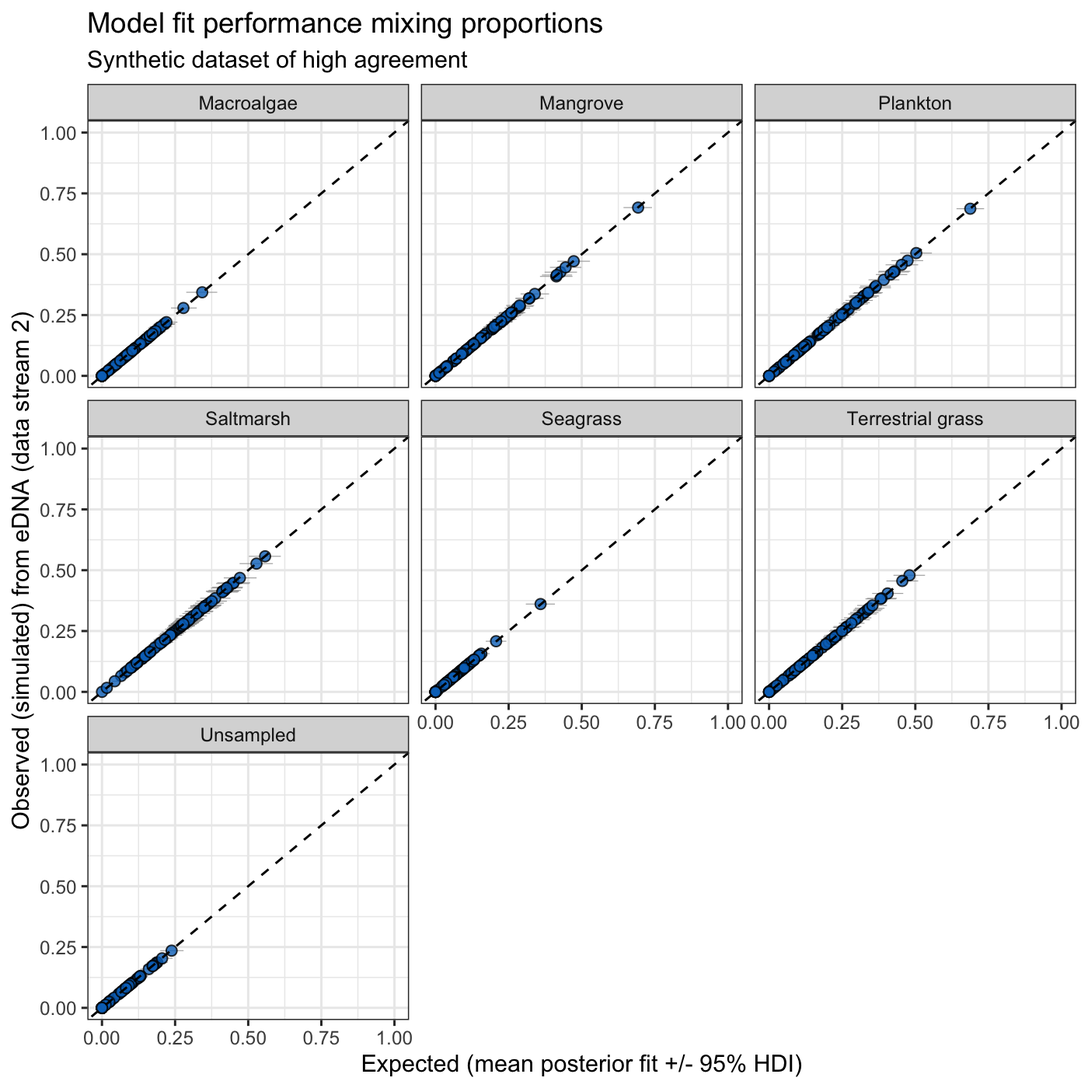
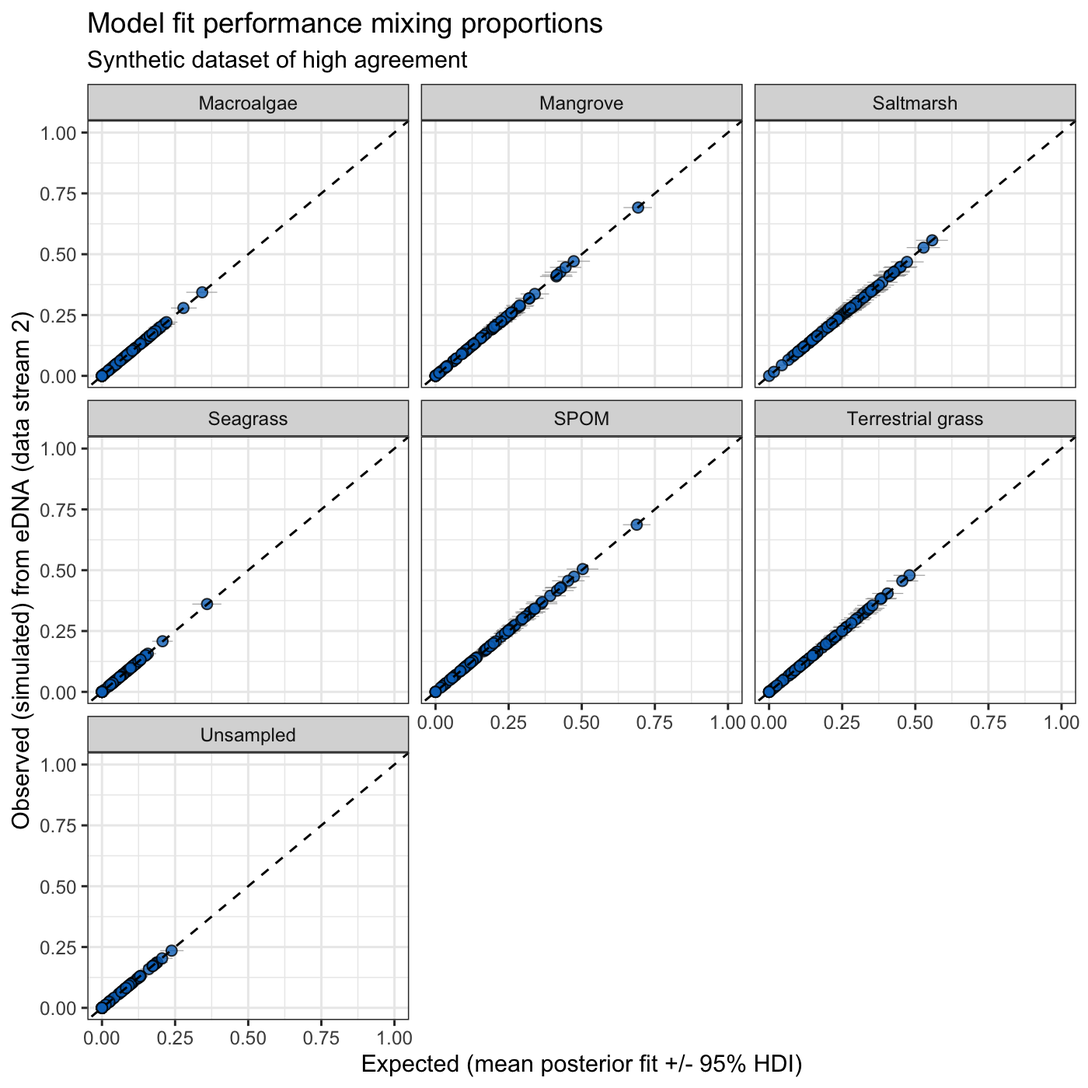
Deploying to gh-pages from @ open-AIMS/mixmustr@7dc9ee240db390f470b6f9cc5ab502306c20d249 🚀

diff --git a/reference/tracer_parameters.html b/reference/tracer_parameters.html
@@ -109,7 +109,7 @@ sample sizes. These values are used as inputs for mixture modelling in the
 <span class="r-in"><span><span class="fu"><a href="https://rdrr.io/r/utils/str.html" class="external-link">str</a></span><span class="op">(</span><span class="va">tracer_parameters</span><span class="op">)</span></span></span>
 <span class="r-out co"><span class="r-pr">#&gt;</span> List of 3</span>
 <span class="r-out co"><span class="r-pr">#&gt;</span>  $ mus   : tibble [6 × 9] (S3: tbl_df/tbl/data.frame)</span>
-<span class="r-out co"><span class="r-pr">#&gt;</span>   ..$ source    : chr [1:6] "Macroalgae" "Mangrove" "Plankton" "Saltmarsh" ...</span>
+<span class="r-out co"><span class="r-pr">#&gt;</span>   ..$ source    : chr [1:6] "Macroalgae" "Mangrove" "SPOM" "Saltmarsh" ...</span>
 <span class="r-out co"><span class="r-pr">#&gt;</span>   ..$ d(13C/12C): num [1:6] -20.4 -27.7 -19.3 -24.6 -15.1 -13.3</span>
 <span class="r-out co"><span class="r-pr">#&gt;</span>   ..$ d(15N/14N): num [1:6] 2.4 4.4 6.2 2.31 1.2 1.69</span>
 <span class="r-out co"><span class="r-pr">#&gt;</span>   ..$ 24:0      : num [1:6] 0 2.73 0 3.3 0 0.29</span>
@@ -119,7 +119,7 @@ sample sizes. These values are used as inputs for mixture modelling in the
 <span class="r-out co"><span class="r-pr">#&gt;</span>   ..$ 20:4w6    : num [1:6] 14.271 0.105 0.38 0 1 ...</span>
 <span class="r-out co"><span class="r-pr">#&gt;</span>   ..$ 20:5w3    : num [1:6] 5.51 0 4.68 0 1 ...</span>
 <span class="r-out co"><span class="r-pr">#&gt;</span>  $ sigmas: tibble [6 × 9] (S3: tbl_df/tbl/data.frame)</span>
-<span class="r-out co"><span class="r-pr">#&gt;</span>   ..$ source    : chr [1:6] "Macroalgae" "Mangrove" "Plankton" "Saltmarsh" ...</span>
+<span class="r-out co"><span class="r-pr">#&gt;</span>   ..$ source    : chr [1:6] "Macroalgae" "Mangrove" "SPOM" "Saltmarsh" ...</span>
 <span class="r-out co"><span class="r-pr">#&gt;</span>   ..$ d(13C/12C): num [1:6] 3.1 1.4 2.8 4.32 3 0.5</span>
 <span class="r-out co"><span class="r-pr">#&gt;</span>   ..$ d(15N/14N): num [1:6] 1.2 2.6 3 1.67 1.3 0.5</span>
 <span class="r-out co"><span class="r-pr">#&gt;</span>   ..$ 24:0      : num [1:6] 0.01 1.4 0.01 3.3 0.01 ...</span>
@@ -129,7 +129,7 @@ sample sizes. These values are used as inputs for mixture modelling in the
 <span class="r-out co"><span class="r-pr">#&gt;</span>   ..$ 20:4w6    : num [1:6] 1.97 0.21 0.85 0.01 0.5 ...</span>
 <span class="r-out co"><span class="r-pr">#&gt;</span>   ..$ 20:5w3    : num [1:6] 3.95 0.01 3.97 0.01 1 ...</span>
 <span class="r-out co"><span class="r-pr">#&gt;</span>  $ ns    : tibble [6 × 9] (S3: tbl_df/tbl/data.frame)</span>
-<span class="r-out co"><span class="r-pr">#&gt;</span>   ..$ source    : chr [1:6] "Macroalgae" "Mangrove" "Plankton" "Saltmarsh" ...</span>
+<span class="r-out co"><span class="r-pr">#&gt;</span>   ..$ source    : chr [1:6] "Macroalgae" "Mangrove" "SPOM" "Saltmarsh" ...</span>
 <span class="r-out co"><span class="r-pr">#&gt;</span>   ..$ d(13C/12C): int [1:6] 12 15 24 13 20 15</span>
 <span class="r-out co"><span class="r-pr">#&gt;</span>   ..$ d(15N/14N): int [1:6] 12 15 24 13 20 15</span>
 <span class="r-out co"><span class="r-pr">#&gt;</span>   ..$ 24:0      : int [1:6] 10 10 10 10 10 10</span>
@@ -146,7 +146,7 @@ sample sizes. These values are used as inputs for mixture modelling in the
 <span class="r-out co"><span class="r-pr">#&gt;</span>   <span style="color: #949494; font-style: italic;">&lt;chr&gt;</span>            <span style="color: #949494; font-style: italic;">&lt;dbl&gt;</span>        <span style="color: #949494; font-style: italic;">&lt;dbl&gt;</span>  <span style="color: #949494; font-style: italic;">&lt;dbl&gt;</span>    <span style="color: #949494; font-style: italic;">&lt;dbl&gt;</span>    <span style="color: #949494; font-style: italic;">&lt;dbl&gt;</span>    <span style="color: #949494; font-style: italic;">&lt;dbl&gt;</span>    <span style="color: #949494; font-style: italic;">&lt;dbl&gt;</span></span>
 <span class="r-out co"><span class="r-pr">#&gt;</span> <span style="color: #BCBCBC;">1</span> Macroalg…        -<span style="color: #BB0000;">20.4</span>         2.4    0        9.46     6.04     7.17   14.3  </span>
 <span class="r-out co"><span class="r-pr">#&gt;</span> <span style="color: #BCBCBC;">2</span> Mangrove         -<span style="color: #BB0000;">27.7</span>         4.4    2.73    14.1     15.5     28.3     0.105</span>
-<span class="r-out co"><span class="r-pr">#&gt;</span> <span style="color: #BCBCBC;">3</span> Plankton         -<span style="color: #BB0000;">19.3</span>         6.2    0       18.5      0.56     1.42    0.38 </span>
+<span class="r-out co"><span class="r-pr">#&gt;</span> <span style="color: #BCBCBC;">3</span> SPOM             -<span style="color: #BB0000;">19.3</span>         6.2    0       18.5      0.56     1.42    0.38 </span>
 <span class="r-out co"><span class="r-pr">#&gt;</span> <span style="color: #BCBCBC;">4</span> Saltmarsh        -<span style="color: #BB0000;">24.6</span>         2.31   3.3      9.1     18.4     24.8     0    </span>
 <span class="r-out co"><span class="r-pr">#&gt;</span> <span style="color: #BCBCBC;">5</span> Seagrass         -<span style="color: #BB0000;">15.1</span>         1.2    0        4       27       33       1    </span>
 <span class="r-out co"><span class="r-pr">#&gt;</span> <span style="color: #BCBCBC;">6</span> Terrestr…        -<span style="color: #BB0000;">13.3</span>         1.69   0.29     1.99    12.5     40.3     1.08 </span>
@@ -159,7 +159,7 @@ sample sizes. These values are used as inputs for mixture modelling in the
 <span class="r-out co"><span class="r-pr">#&gt;</span>   <span style="color: #949494; font-style: italic;">&lt;chr&gt;</span>            <span style="color: #949494; font-style: italic;">&lt;dbl&gt;</span>        <span style="color: #949494; font-style: italic;">&lt;dbl&gt;</span>  <span style="color: #949494; font-style: italic;">&lt;dbl&gt;</span>    <span style="color: #949494; font-style: italic;">&lt;dbl&gt;</span>    <span style="color: #949494; font-style: italic;">&lt;dbl&gt;</span>    <span style="color: #949494; font-style: italic;">&lt;dbl&gt;</span>    <span style="color: #949494; font-style: italic;">&lt;dbl&gt;</span></span>
 <span class="r-out co"><span class="r-pr">#&gt;</span> <span style="color: #BCBCBC;">1</span> Macroalg…         3.1          1.2    0.01     1.38    1.87     0.955    1.97 </span>
 <span class="r-out co"><span class="r-pr">#&gt;</span> <span style="color: #BCBCBC;">2</span> Mangrove          1.4          2.6    1.40     1.87    2.00     2.52     0.21 </span>
-<span class="r-out co"><span class="r-pr">#&gt;</span> <span style="color: #BCBCBC;">3</span> Plankton          2.8          3      0.01    10.2     0.602    0.259    0.850</span>
+<span class="r-out co"><span class="r-pr">#&gt;</span> <span style="color: #BCBCBC;">3</span> SPOM              2.8          3      0.01    10.2     0.602    0.259    0.850</span>
 <span class="r-out co"><span class="r-pr">#&gt;</span> <span style="color: #BCBCBC;">4</span> Saltmarsh         4.32         1.67   3.3      7.64    4.45    32.6      0.01 </span>
 <span class="r-out co"><span class="r-pr">#&gt;</span> <span style="color: #BCBCBC;">5</span> Seagrass          3            1.3    0.01     1       5       12        0.5  </span>
 <span class="r-out co"><span class="r-pr">#&gt;</span> <span style="color: #BCBCBC;">6</span> Terrestr…         0.5          0.5    0.09     0.14    0.91     3.52     1.02 </span>
@@ -172,7 +172,7 @@ sample sizes. These values are used as inputs for mixture modelling in the
 <span class="r-out co"><span class="r-pr">#&gt;</span>   <span style="color: #949494; font-style: italic;">&lt;chr&gt;</span>            <span style="color: #949494; font-style: italic;">&lt;int&gt;</span>        <span style="color: #949494; font-style: italic;">&lt;int&gt;</span>  <span style="color: #949494; font-style: italic;">&lt;int&gt;</span>    <span style="color: #949494; font-style: italic;">&lt;int&gt;</span>    <span style="color: #949494; font-style: italic;">&lt;int&gt;</span>    <span style="color: #949494; font-style: italic;">&lt;int&gt;</span>    <span style="color: #949494; font-style: italic;">&lt;int&gt;</span></span>
 <span class="r-out co"><span class="r-pr">#&gt;</span> <span style="color: #BCBCBC;">1</span> Macroalg…           12           12     10       10       10       10       10</span>
 <span class="r-out co"><span class="r-pr">#&gt;</span> <span style="color: #BCBCBC;">2</span> Mangrove            15           15     10       10       10       10       10</span>
-<span class="r-out co"><span class="r-pr">#&gt;</span> <span style="color: #BCBCBC;">3</span> Plankton            24           24     10       10       10       10       10</span>
+<span class="r-out co"><span class="r-pr">#&gt;</span> <span style="color: #BCBCBC;">3</span> SPOM                24           24     10       10       10       10       10</span>
 <span class="r-out co"><span class="r-pr">#&gt;</span> <span style="color: #BCBCBC;">4</span> Saltmarsh           13           13     10       10       10       10       10</span>
 <span class="r-out co"><span class="r-pr">#&gt;</span> <span style="color: #BCBCBC;">5</span> Seagrass            20           20     10       10       10       10       10</span>
 <span class="r-out co"><span class="r-pr">#&gt;</span> <span style="color: #BCBCBC;">6</span> Terrestr…           15           15     10       10       10       10       10</span>

diff --git a/reference/bcs_si.html b/reference/bcs_si.html
@@ -1,9 +1,11 @@
 <!DOCTYPE html>
 <!-- Generated by pkgdown: do not edit by hand --><html lang="en"><head><meta http-equiv="Content-Type" content="text/html; charset=UTF-8"><meta charset="utf-8"><meta http-equiv="X-UA-Compatible" content="IE=edge"><meta name="viewport" content="width=device-width, initial-scale=1.0"><title>BCS Stable Isotope Data — bcs_si • mixmustr</title><!-- jquery --><script src="https://cdnjs.cloudflare.com/ajax/libs/jquery/3.7.1/jquery.min.js" integrity="sha512-v2CJ7UaYy4JwqLDIrZUI/4hqeoQieOmAZNXBeQyjo21dadnwR+8ZaIJVT8EE2iyI61OV8e6M8PP2/4hpQINQ/g==" crossorigin="anonymous" referrerpolicy="no-referrer"></script><!-- Bootstrap --><link href="https://cdnjs.cloudflare.com/ajax/libs/bootswatch/3.4.0/yeti/bootstrap.min.css" rel="stylesheet" crossorigin="anonymous"><script src="https://cdnjs.cloudflare.com/ajax/libs/twitter-bootstrap/3.4.1/js/bootstrap.min.js" integrity="sha256-nuL8/2cJ5NDSSwnKD8VqreErSWHtnEP9E7AySL+1ev4=" crossorigin="anonymous"></script><!-- bootstrap-toc --><link rel="stylesheet" href="../bootstrap-toc.css"><script src="../bootstrap-toc.js"></script><!-- Font Awesome icons --><link rel="stylesheet" href="https://cdnjs.cloudflare.com/ajax/libs/font-awesome/5.12.1/css/all.min.css" integrity="sha256-mmgLkCYLUQbXn0B1SRqzHar6dCnv9oZFPEC1g1cwlkk=" crossorigin="anonymous"><link rel="stylesheet" href="https://cdnjs.cloudflare.com/ajax/libs/font-awesome/5.12.1/css/v4-shims.min.css" integrity="sha256-wZjR52fzng1pJHwx4aV2AO3yyTOXrcDW7jBpJtTwVxw=" crossorigin="anonymous"><!-- clipboard.js --><script src="https://cdnjs.cloudflare.com/ajax/libs/clipboard.js/2.0.6/clipboard.min.js" integrity="sha256-inc5kl9MA1hkeYUt+EC3BhlIgyp/2jDIyBLS6k3UxPI=" crossorigin="anonymous"></script><!-- headroom.js --><script src="https://cdnjs.cloudflare.com/ajax/libs/headroom/0.11.0/headroom.min.js" integrity="sha256-AsUX4SJE1+yuDu5+mAVzJbuYNPHj/WroHuZ8Ir/CkE0=" crossorigin="anonymous"></script><script src="https://cdnjs.cloudflare.com/ajax/libs/headroom/0.11.0/jQuery.headroom.min.js" integrity="sha256-ZX/yNShbjqsohH1k95liqY9Gd8uOiE1S4vZc+9KQ1K4=" crossorigin="anonymous"></script><!-- pkgdown --><link href="../pkgdown.css" rel="stylesheet"><script src="../pkgdown.js"></script><meta property="og:title" content="BCS Stable Isotope Data — bcs_si"><meta property="og:description" content="This dataset contains stable isotope ratios
 (\(\delta^{13}C\) and \(\delta^{15}N\)), their standard deviations and
-sample sizes for various sources in the BCS study. Notice that the sample
-sizes for Terrestrial grass were not provided in the original source
-(Goni &amp;amp; Thomas, 2000) and were therefore arbitrarily set to 15."><meta property="og:image" content="/logo.png"><!-- mathjax --><script src="https://cdnjs.cloudflare.com/ajax/libs/mathjax/2.7.5/MathJax.js" integrity="sha256-nvJJv9wWKEm88qvoQl9ekL2J+k/RWIsaSScxxlsrv8k=" crossorigin="anonymous"></script><script src="https://cdnjs.cloudflare.com/ajax/libs/mathjax/2.7.5/config/TeX-AMS-MML_HTMLorMML.js" integrity="sha256-84DKXVJXs0/F8OTMzX4UR909+jtl4G7SPypPavF+GfA=" crossorigin="anonymous"></script><!--[if lt IE 9]>
+sample sizes for various sources, including macroalgae, mangroves, saltmarsh,
+seagrass, SPOM (suspended particulate organic matter), and terrestrial grass
+Notice that the sample sizes for Terrestrial grass were not provided in the
+original source (Goni &amp;amp; Thomas, 2000) and were therefore arbitrarily set to
+15."><meta property="og:image" content="/logo.png"><!-- mathjax --><script src="https://cdnjs.cloudflare.com/ajax/libs/mathjax/2.7.5/MathJax.js" integrity="sha256-nvJJv9wWKEm88qvoQl9ekL2J+k/RWIsaSScxxlsrv8k=" crossorigin="anonymous"></script><script src="https://cdnjs.cloudflare.com/ajax/libs/mathjax/2.7.5/config/TeX-AMS-MML_HTMLorMML.js" integrity="sha256-84DKXVJXs0/F8OTMzX4UR909+jtl4G7SPypPavF+GfA=" crossorigin="anonymous"></script><!--[if lt IE 9]>
 <script src="https://oss.maxcdn.com/html5shiv/3.7.3/html5shiv.min.js"></script>
 <script src="https://oss.maxcdn.com/respond/1.4.2/respond.min.js"></script>
 <![endif]--></head><body data-spy="scroll" data-target="#toc">
@@ -62,9 +64,11 @@ sizes for Terrestrial grass were not provided in the original source
     <div class="ref-description">
     <p>This dataset contains stable isotope ratios
 (\(\delta^{13}C\) and \(\delta^{15}N\)), their standard deviations and
-sample sizes for various sources in the BCS study. Notice that the sample
-sizes for Terrestrial grass were not provided in the original source
-(Goni &amp; Thomas, 2000) and were therefore arbitrarily set to 15.</p>
+sample sizes for various sources, including macroalgae, mangroves, saltmarsh,
+seagrass, SPOM (suspended particulate organic matter), and terrestrial grass
+Notice that the sample sizes for Terrestrial grass were not provided in the
+original source (Goni &amp; Thomas, 2000) and were therefore arbitrarily set to
+15.</p>
     </div>
 
     <div id="ref-usage">
@@ -119,7 +123,7 @@ measurements.</p></dd>
 <span class="r-out co"><span class="r-pr">#&gt;</span>              source d(13C/12C) d(13C/12C) (SD) d(13C/12C) (n) d(15N/14N)</span>
 <span class="r-out co"><span class="r-pr">#&gt;</span> 1        Macroalgae      -20.4            3.10             12       2.40</span>
 <span class="r-out co"><span class="r-pr">#&gt;</span> 2          Mangrove      -27.7            1.40             15       4.40</span>
-<span class="r-out co"><span class="r-pr">#&gt;</span> 3          Plankton      -19.3            2.80             24       6.20</span>
+<span class="r-out co"><span class="r-pr">#&gt;</span> 3              SPOM      -19.3            2.80             24       6.20</span>
 <span class="r-out co"><span class="r-pr">#&gt;</span> 4         Saltmarsh      -24.6            4.32             13       2.31</span>
 <span class="r-out co"><span class="r-pr">#&gt;</span> 5          Seagrass      -15.1            3.00             20       1.20</span>
 <span class="r-out co"><span class="r-pr">#&gt;</span> 6 Terrestrial grass      -13.3            0.50             15       1.69</span>

diff --git a/reference/bcs_fa.html b/reference/bcs_fa.html
@@ -1,6 +1,7 @@
 <!DOCTYPE html>
 <!-- Generated by pkgdown: do not edit by hand --><html lang="en"><head><meta http-equiv="Content-Type" content="text/html; charset=UTF-8"><meta charset="utf-8"><meta http-equiv="X-UA-Compatible" content="IE=edge"><meta name="viewport" content="width=device-width, initial-scale=1.0"><title>Fatty Acid Composition of Various Sources — bcs_fa • mixmustr</title><!-- jquery --><script src="https://cdnjs.cloudflare.com/ajax/libs/jquery/3.7.1/jquery.min.js" integrity="sha512-v2CJ7UaYy4JwqLDIrZUI/4hqeoQieOmAZNXBeQyjo21dadnwR+8ZaIJVT8EE2iyI61OV8e6M8PP2/4hpQINQ/g==" crossorigin="anonymous" referrerpolicy="no-referrer"></script><!-- Bootstrap --><link href="https://cdnjs.cloudflare.com/ajax/libs/bootswatch/3.4.0/yeti/bootstrap.min.css" rel="stylesheet" crossorigin="anonymous"><script src="https://cdnjs.cloudflare.com/ajax/libs/twitter-bootstrap/3.4.1/js/bootstrap.min.js" integrity="sha256-nuL8/2cJ5NDSSwnKD8VqreErSWHtnEP9E7AySL+1ev4=" crossorigin="anonymous"></script><!-- bootstrap-toc --><link rel="stylesheet" href="../bootstrap-toc.css"><script src="../bootstrap-toc.js"></script><!-- Font Awesome icons --><link rel="stylesheet" href="https://cdnjs.cloudflare.com/ajax/libs/font-awesome/5.12.1/css/all.min.css" integrity="sha256-mmgLkCYLUQbXn0B1SRqzHar6dCnv9oZFPEC1g1cwlkk=" crossorigin="anonymous"><link rel="stylesheet" href="https://cdnjs.cloudflare.com/ajax/libs/font-awesome/5.12.1/css/v4-shims.min.css" integrity="sha256-wZjR52fzng1pJHwx4aV2AO3yyTOXrcDW7jBpJtTwVxw=" crossorigin="anonymous"><!-- clipboard.js --><script src="https://cdnjs.cloudflare.com/ajax/libs/clipboard.js/2.0.6/clipboard.min.js" integrity="sha256-inc5kl9MA1hkeYUt+EC3BhlIgyp/2jDIyBLS6k3UxPI=" crossorigin="anonymous"></script><!-- headroom.js --><script src="https://cdnjs.cloudflare.com/ajax/libs/headroom/0.11.0/headroom.min.js" integrity="sha256-AsUX4SJE1+yuDu5+mAVzJbuYNPHj/WroHuZ8Ir/CkE0=" crossorigin="anonymous"></script><script src="https://cdnjs.cloudflare.com/ajax/libs/headroom/0.11.0/jQuery.headroom.min.js" integrity="sha256-ZX/yNShbjqsohH1k95liqY9Gd8uOiE1S4vZc+9KQ1K4=" crossorigin="anonymous"></script><!-- pkgdown --><link href="../pkgdown.css" rel="stylesheet"><script src="../pkgdown.js"></script><meta property="og:title" content="Fatty Acid Composition of Various Sources — bcs_fa"><meta property="og:description" content="This dataset contains the fatty acid composition of various sources,
-including macroalgae, mangroves, saltmarsh, seagrass, plankton, and
+including macroalgae, mangroves, saltmarsh, seagrass, SPOM (suspended
+particulate organic matter), and
 terrestrial grass. The data includes mean values, standard deviations and
 sample sizes for different fatty acids, as well as the study from which the
 data was sourced. Values of 0 standard deviation have been arbitrarily
@@ -62,7 +63,8 @@ transformed to 0.01."><meta property="og:image" content="/logo.png"><!-- mathjax
 
     <div class="ref-description">
     <p>This dataset contains the fatty acid composition of various sources,
-including macroalgae, mangroves, saltmarsh, seagrass, plankton, and
+including macroalgae, mangroves, saltmarsh, seagrass, SPOM (suspended
+particulate organic matter), and
 terrestrial grass. The data includes mean values, standard deviations and
 sample sizes for different fatty acids, as well as the study from which the
 data was sourced. Values of 0 standard deviation have been arbitrarily
@@ -157,7 +159,7 @@ transformed to 0.01.</p>
 <span class="r-out co"><span class="r-pr">#&gt;</span>              source                                   Taxa 24:0 24:0 (SD)</span>
 <span class="r-out co"><span class="r-pr">#&gt;</span> 1        Macroalgae                              Sargassum 0.00  0.010000</span>
 <span class="r-out co"><span class="r-pr">#&gt;</span> 2          Mangrove                              A. marina 2.73  1.398428</span>
-<span class="r-out co"><span class="r-pr">#&gt;</span> 3          Plankton                sediment trap 200-1430m 0.00  0.010000</span>
+<span class="r-out co"><span class="r-pr">#&gt;</span> 3              SPOM                sediment trap 200-1430m 0.00  0.010000</span>
 <span class="r-out co"><span class="r-pr">#&gt;</span> 4         Saltmarsh                   Salicornia bigelovii 3.30  3.300000</span>
 <span class="r-out co"><span class="r-pr">#&gt;</span> 5          Seagrass C. augustata, A antartica, H. uniervis 0.00  0.010000</span>
 <span class="r-out co"><span class="r-pr">#&gt;</span> 6 Terrestrial grass                   Phragmites australis 0.29  0.090000</span>

diff --git a/index.html b/index.html
@@ -121,15 +121,15 @@
 <div class="sourceCode" id="cb3"><pre class="sourceCode R"><code class="sourceCode r"><span id="cb3-1"><a href="#cb3-1" tabindex="-1"></a><span class="fu">library</span>(mixmustr)</span>
 <span id="cb3-2"><a href="#cb3-2" tabindex="-1"></a><span class="fu">options</span>(<span class="at">mc.cores =</span> parallel<span class="sc">::</span><span class="fu">detectCores</span>())</span>
 <span id="cb3-3"><a href="#cb3-3" tabindex="-1"></a>rstan<span class="sc">::</span><span class="fu">rstan_options</span>(<span class="at">auto_write =</span> <span class="cn">TRUE</span>)</span>
-<span id="cb3-4"><a href="#cb3-4" tabindex="-1"></a>mus <span class="ot">&lt;-</span> tracer_parameters<span class="sc">$</span>mus</span>
-<span id="cb3-5"><a href="#cb3-5" tabindex="-1"></a>sigmas <span class="ot">&lt;-</span> tracer_parameters<span class="sc">$</span>sigmas</span>
+<span id="cb3-4"><a href="#cb3-4" tabindex="-1"></a><span class="co"># As an example, we pick mixmustr_models[6, ] because it runs quickest. It is</span></span>
+<span id="cb3-5"><a href="#cb3-5" tabindex="-1"></a><span class="co"># non-hierarchical and does not estimate (un)sampled tracer signatures.</span></span>
 <span id="cb3-6"><a href="#cb3-6" tabindex="-1"></a>model_fits <span class="ot">&lt;-</span> <span class="fu">run_mixmustr_models</span>(</span>
-<span id="cb3-7"><a href="#cb3-7" tabindex="-1"></a>  mixmustr_models, synthetic_df_convergent, mus, sigmas, <span class="at">sigma_ln_rho =</span> <span class="fl">0.1</span>,</span>
-<span id="cb3-8"><a href="#cb3-8" tabindex="-1"></a>  <span class="at">iter =</span> <span class="fl">1e4</span>, <span class="at">warmup =</span> <span class="fl">5e3</span>, <span class="at">chains =</span> <span class="dv">4</span>, <span class="at">cores =</span> <span class="dv">4</span></span>
+<span id="cb3-7"><a href="#cb3-7" tabindex="-1"></a>  mixmustr_models[<span class="dv">6</span>, ], synthetic_df_convergent, tracer_parameters,</span>
+<span id="cb3-8"><a href="#cb3-8" tabindex="-1"></a>  <span class="at">sigma_ln_rho =</span> <span class="fl">0.1</span>, <span class="at">iter =</span> <span class="fl">1e4</span>, <span class="at">warmup =</span> <span class="fl">5e3</span>, <span class="at">chains =</span> <span class="dv">4</span>, <span class="at">cores =</span> <span class="dv">4</span></span>
 <span id="cb3-9"><a href="#cb3-9" tabindex="-1"></a>)</span>
 <span id="cb3-10"><a href="#cb3-10" tabindex="-1"></a><span class="co"># then visualise a particular output</span></span>
-<span id="cb3-11"><a href="#cb3-11" tabindex="-1"></a><span class="fu">make_post_prop_long</span>(model_fits[[<span class="dv">1</span>]]<span class="sc">$</span>model, mus, synthetic_df_convergent,</span>
-<span id="cb3-12"><a href="#cb3-12" tabindex="-1"></a>                    <span class="at">target =</span> <span class="st">"df_stream_2"</span>, <span class="at">n =</span> <span class="dv">1</span>)<span class="sc">|&gt;</span></span>
+<span id="cb3-11"><a href="#cb3-11" tabindex="-1"></a><span class="fu">make_post_prop_long</span>(model_fits[[<span class="dv">1</span>]]<span class="sc">$</span>model, tracer_parameters<span class="sc">$</span>mus,</span>
+<span id="cb3-12"><a href="#cb3-12" tabindex="-1"></a>                    synthetic_df_convergent, <span class="at">target =</span> <span class="st">"df_stream_2"</span>, <span class="at">n =</span> <span class="dv">1</span>) <span class="sc">|&gt;</span></span>
 <span id="cb3-13"><a href="#cb3-13" tabindex="-1"></a>  <span class="fu">plot_multiple_faceted_scatter_avg</span>() <span class="sc">+</span></span>
 <span id="cb3-14"><a href="#cb3-14" tabindex="-1"></a>  <span class="fu">theme</span>(<span class="at">legend.position =</span> <span class="st">"none"</span>) <span class="sc">+</span></span>
 <span id="cb3-15"><a href="#cb3-15" tabindex="-1"></a>  <span class="fu">labs</span>(<span class="at">y =</span> <span class="st">"Observed (simulated) from eDNA (data stream 2)"</span>,</span>

diff --git a/reference/synthetic_df_convergent.html b/reference/synthetic_df_convergent.html
@@ -112,17 +112,17 @@ used for testing purposes</p></dd>
 <span class="r-out co"><span class="r-pr">#&gt;</span>   ..$ group            : chr [1:79] "G1" "G1" "G1" "G1" ...</span>
 <span class="r-out co"><span class="r-pr">#&gt;</span>   ..$ Macroalgae       : num [1:79] 0 0.0708 0.0402 0.0494 0.028 ...</span>
 <span class="r-out co"><span class="r-pr">#&gt;</span>   ..$ Mangrove         : num [1:79] 0.4263 0.2478 0.2504 0.0164 0.233 ...</span>
-<span class="r-out co"><span class="r-pr">#&gt;</span>   ..$ Plankton         : num [1:79] 0.117 0.329 0.196 0.362 0.369 ...</span>
 <span class="r-out co"><span class="r-pr">#&gt;</span>   ..$ Saltmarsh        : num [1:79] 0.301 0.205 0.29 0.413 0.27 ...</span>
 <span class="r-out co"><span class="r-pr">#&gt;</span>   ..$ Seagrass         : num [1:79] 0.0397 0.0692 0.1152 0.0324 0 ...</span>
+<span class="r-out co"><span class="r-pr">#&gt;</span>   ..$ SPOM             : num [1:79] 0.117 0.329 0.196 0.362 0.369 ...</span>
 <span class="r-out co"><span class="r-pr">#&gt;</span>   ..$ Terrestrial grass: num [1:79] 0.079 0.0783 0.1081 0 0.077 ...</span>
 <span class="r-out co"><span class="r-pr">#&gt;</span>  $ stream_1_props:'data.frame':	79 obs. of  7 variables:</span>
 <span class="r-out co"><span class="r-pr">#&gt;</span>   ..$ group            : chr [1:79] "G1" "G1" "G1" "G1" ...</span>
 <span class="r-out co"><span class="r-pr">#&gt;</span>   ..$ Macroalgae       : num [1:79] 0 0.0483 0.051 0.0242 0.0173 ...</span>
 <span class="r-out co"><span class="r-pr">#&gt;</span>   ..$ Mangrove         : num [1:79] 0.3856 0.292 0.2448 0.0183 0.2622 ...</span>
-<span class="r-out co"><span class="r-pr">#&gt;</span>   ..$ Plankton         : num [1:79] 0.183 0.358 0.187 0.42 0.397 ...</span>
 <span class="r-out co"><span class="r-pr">#&gt;</span>   ..$ Saltmarsh        : num [1:79] 0.347 0.201 0.33 0.456 0.239 ...</span>
 <span class="r-out co"><span class="r-pr">#&gt;</span>   ..$ Seagrass         : num [1:79] 0.0177 0.0469 0.063 0.013 0 ...</span>
+<span class="r-out co"><span class="r-pr">#&gt;</span>   ..$ SPOM             : num [1:79] 0.183 0.358 0.187 0.42 0.397 ...</span>
 <span class="r-out co"><span class="r-pr">#&gt;</span>   ..$ Terrestrial grass: num [1:79] 0.0508 0.0537 0.1239 0 0.0721 ...</span>
 </code></pre></div>
     </div>

diff --git a/reference/synthetic_df_divergent.html b/reference/synthetic_df_divergent.html
@@ -112,17 +112,17 @@ used for testing purposes</p></dd>
 <span class="r-out co"><span class="r-pr">#&gt;</span>   ..$ group            : chr [1:79] "G1" "G1" "G1" "G1" ...</span>
 <span class="r-out co"><span class="r-pr">#&gt;</span>   ..$ Macroalgae       : num [1:79] 0 0.0528 0.0385 0 0.0852 ...</span>
 <span class="r-out co"><span class="r-pr">#&gt;</span>   ..$ Mangrove         : num [1:79] 0.175 0.485 0.4 0.312 0.331 ...</span>
-<span class="r-out co"><span class="r-pr">#&gt;</span>   ..$ Plankton         : num [1:79] 0.344 0.228 0.286 0.166 0.204 ...</span>
 <span class="r-out co"><span class="r-pr">#&gt;</span>   ..$ Saltmarsh        : num [1:79] 0.1603 0.0617 0.1599 0.3096 0.286 ...</span>
 <span class="r-out co"><span class="r-pr">#&gt;</span>   ..$ Seagrass         : num [1:79] 0.0538 0 0 0.0356 0.0242 ...</span>
+<span class="r-out co"><span class="r-pr">#&gt;</span>   ..$ SPOM             : num [1:79] 0.344 0.228 0.286 0.166 0.204 ...</span>
 <span class="r-out co"><span class="r-pr">#&gt;</span>   ..$ Terrestrial grass: num [1:79] 0.1986 0.1083 0.0495 0.1375 0.069 ...</span>
 <span class="r-out co"><span class="r-pr">#&gt;</span>  $ stream_1_props:'data.frame':	79 obs. of  7 variables:</span>
 <span class="r-out co"><span class="r-pr">#&gt;</span>   ..$ group            : chr [1:79] "G1" "G1" "G1" "G1" ...</span>
 <span class="r-out co"><span class="r-pr">#&gt;</span>   ..$ Macroalgae       : num [1:79] 0 0.0483 0.051 0.0242 0.0173 ...</span>
 <span class="r-out co"><span class="r-pr">#&gt;</span>   ..$ Mangrove         : num [1:79] 0.3856 0.292 0.2448 0.0183 0.2622 ...</span>
-<span class="r-out co"><span class="r-pr">#&gt;</span>   ..$ Plankton         : num [1:79] 0.183 0.358 0.187 0.42 0.397 ...</span>
 <span class="r-out co"><span class="r-pr">#&gt;</span>   ..$ Saltmarsh        : num [1:79] 0.347 0.201 0.33 0.456 0.239 ...</span>
 <span class="r-out co"><span class="r-pr">#&gt;</span>   ..$ Seagrass         : num [1:79] 0.0177 0.0469 0.063 0.013 0 ...</span>
+<span class="r-out co"><span class="r-pr">#&gt;</span>   ..$ SPOM             : num [1:79] 0.183 0.358 0.187 0.42 0.397 ...</span>
 <span class="r-out co"><span class="r-pr">#&gt;</span>   ..$ Terrestrial grass: num [1:79] 0.0508 0.0537 0.1239 0 0.0721 ...</span>
 </code></pre></div>
     </div>

diff --git a/reference/reshape_ref_data.html b/reference/reshape_ref_data.html
@@ -95,7 +95,7 @@ mixing proportions from the unsampled source(s).</p>
     <div class="sourceCode"><pre class="sourceCode r"><code><span class="r-in"><span><span class="kw"><a href="https://rdrr.io/r/base/library.html" class="external-link">library</a></span><span class="op">(</span><span class="va"><a href="https://open-aims.github.io/mixmustr/" class="external-link">mixmustr</a></span><span class="op">)</span></span></span>
 <span class="r-in"><span><span class="fu">reshape_ref_data</span><span class="op">(</span><span class="va">synthetic_df_convergent</span>, target <span class="op">=</span> <span class="st">"df_stream_2"</span>,</span></span>
 <span class="r-in"><span>                 order_ref <span class="op">=</span> <span class="va">tracer_parameters</span><span class="op">$</span><span class="va">mus</span><span class="op">$</span><span class="va">source</span><span class="op">)</span></span></span>
-<span class="r-out co"><span class="r-pr">#&gt;</span>        Macroalgae    Mangrove   Plankton  Saltmarsh    Seagrass</span>
+<span class="r-out co"><span class="r-pr">#&gt;</span>        Macroalgae    Mangrove       SPOM  Saltmarsh    Seagrass</span>
 <span class="r-out co"><span class="r-pr">#&gt;</span>  [1,] 0.000000000 0.426265543 0.11692895 0.30083088 0.039650024</span>
 <span class="r-out co"><span class="r-pr">#&gt;</span>  [2,] 0.070792164 0.247829657 0.32877222 0.20512423 0.069206431</span>
 <span class="r-out co"><span class="r-pr">#&gt;</span>  [3,] 0.040246162 0.250371487 0.19613769 0.28995024 0.115196877</span>

diff --git a/articles/introduction.html b/articles/introduction.html
@@ -269,7 +269,7 @@ al.</em>, 2019</a>):</p>
 <span><span class="co">#&gt;              Source mean 2.5%HDI 97.5%HDI</span></span>
 <span><span class="co">#&gt; 1        Macroalgae 0.98    0.97     0.99</span></span>
 <span><span class="co">#&gt; 2          Mangrove 0.98    0.98     0.99</span></span>
-<span><span class="co">#&gt; 3          Plankton 0.99    0.98     0.99</span></span>
+<span><span class="co">#&gt; 3              SPOM 0.99    0.98     0.99</span></span>
 <span><span class="co">#&gt; 4         Saltmarsh 0.97    0.96     0.98</span></span>
 <span><span class="co">#&gt; 5          Seagrass 0.98    0.97     0.99</span></span>
 <span><span class="co">#&gt; 6 Terrestrial grass 0.98    0.97     0.99</span></span>
